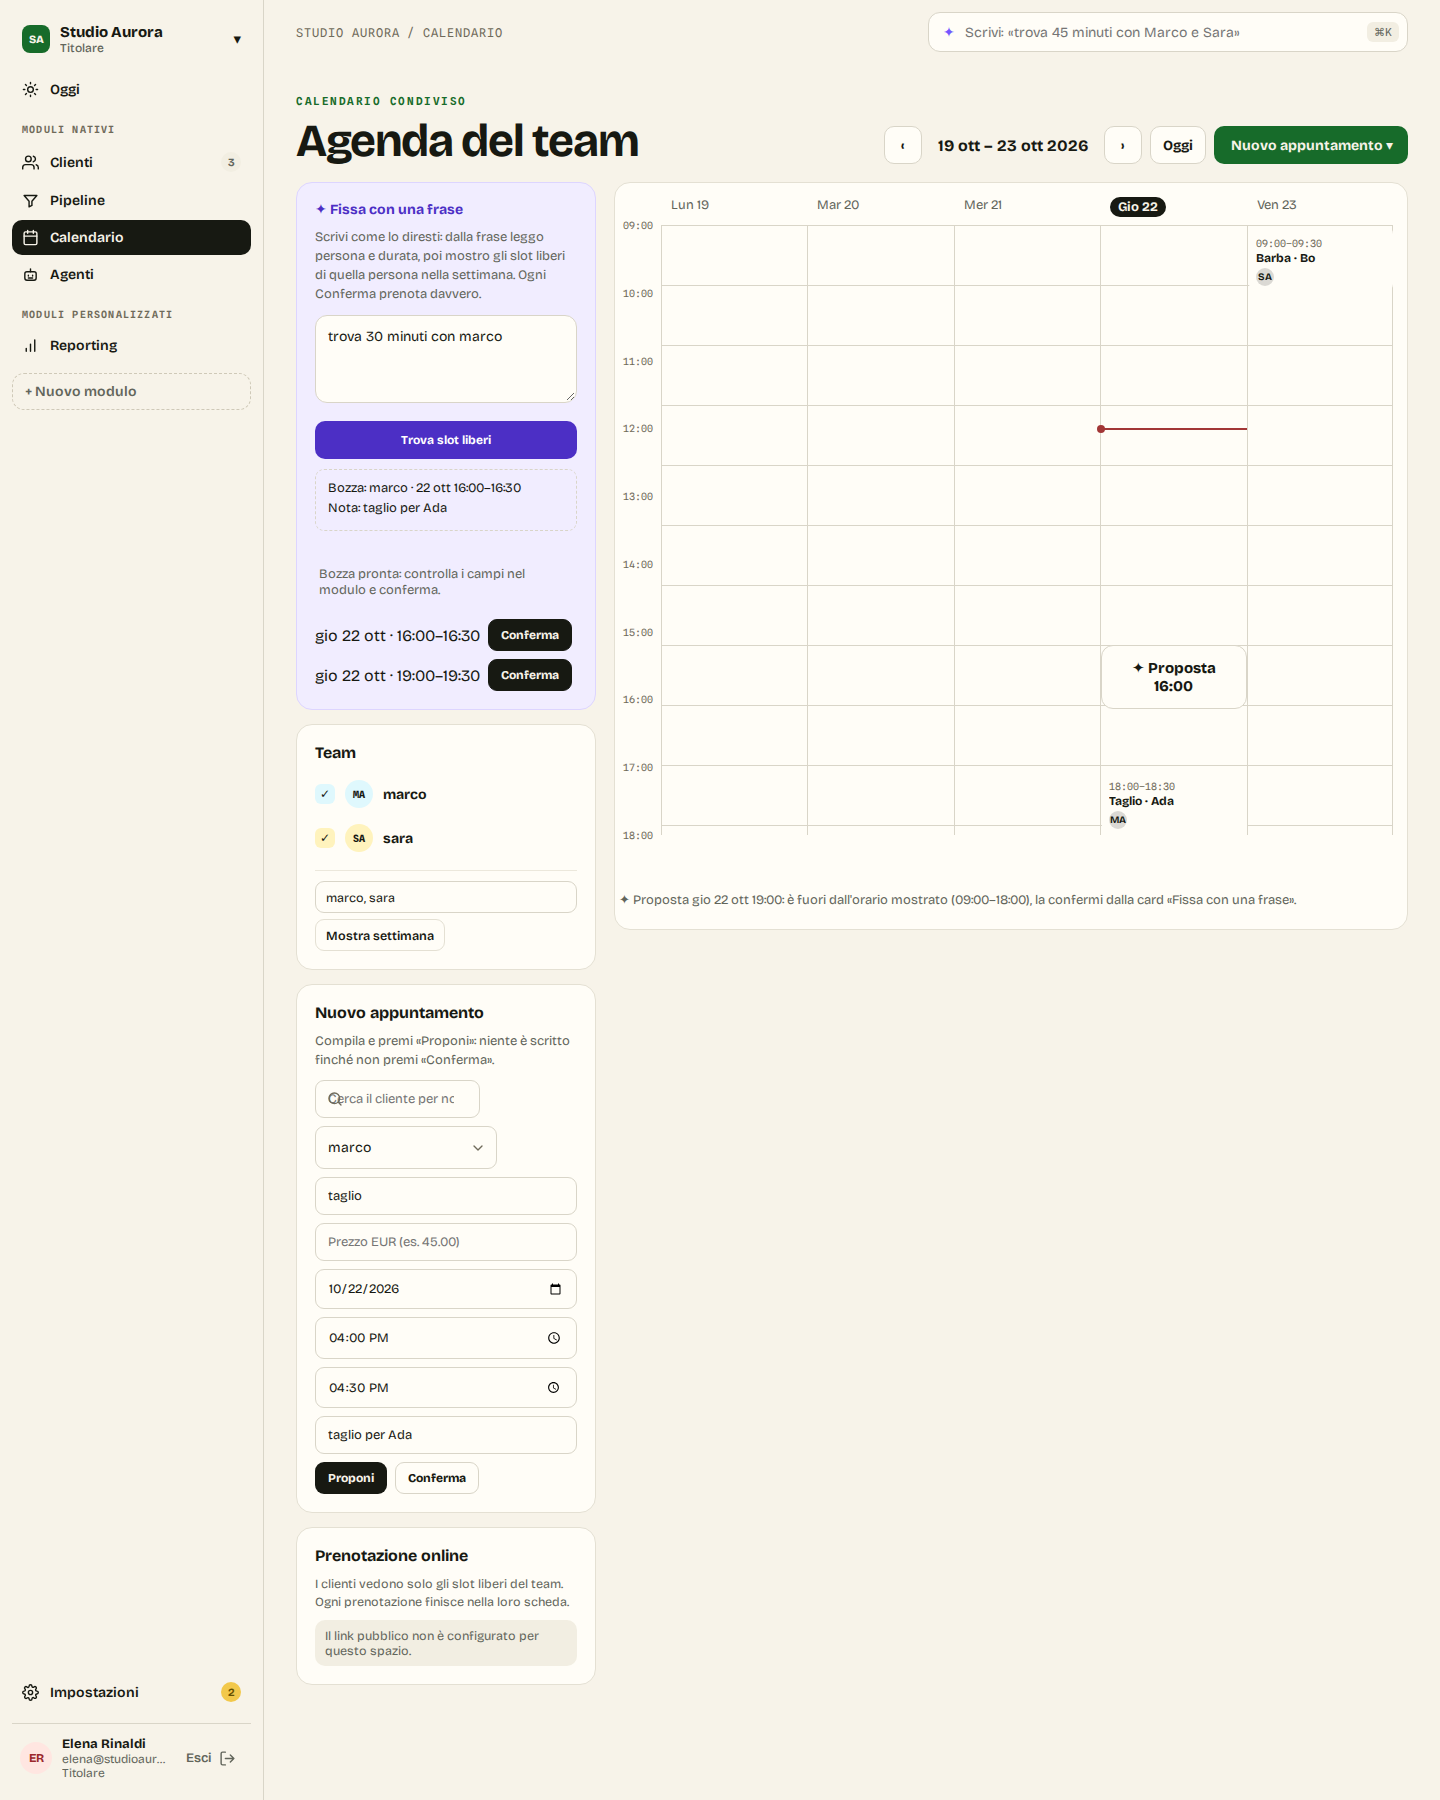
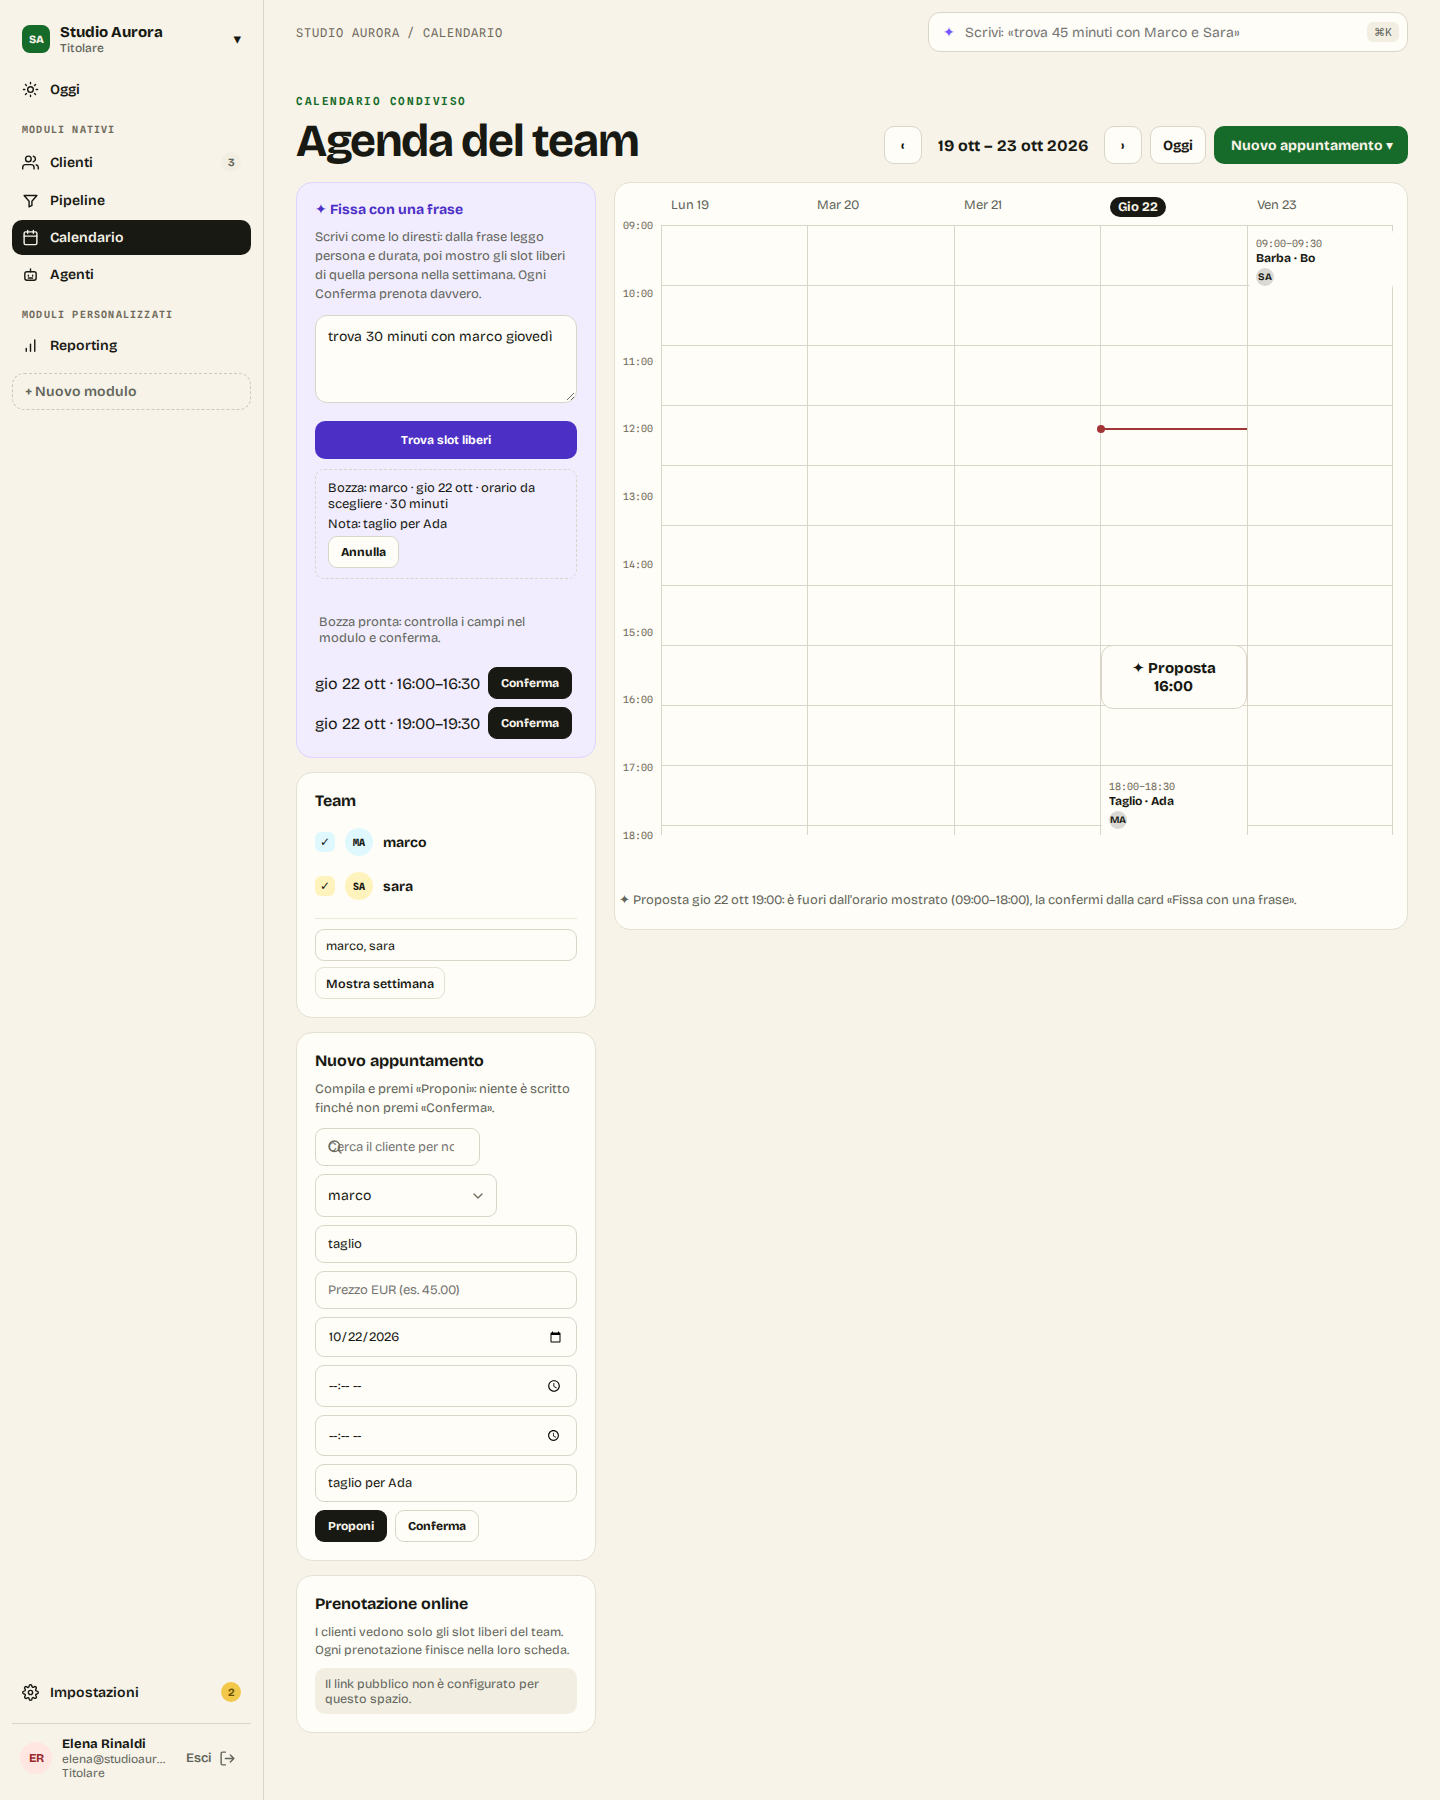
backlog:5fbebe85 Calendario /bo: PNG bo:shots 1440+390 aggiornati con reproTest (2 ritorno)

Changed region(s): [[0.2188, 0.2489, 0.4062, 0.9644]]

diff --git a/tests/admin-calendario-shots-pair.test.js b/tests/admin-calendario-shots-pair.test.js
@@ -1,0 +1,39 @@
+// @ts-check
+/**
+ * Riprova del NON PASSA del verificatore su backlog:5fbebe8559e9
+ * (2026-11-08: «OBSERVATION_FAILED: AC-3», la prova visibile del Calendario
+ * mancava, mentre C8 e C5 erano gia curati nel codice e C18 obsoleto e C12
+ * motivato per decisione).
+ *
+ * La schermata funzionale e coperta dai test (tests/admin-calendario*.test.js,
+ * mappa in docs/backoffice/calendario.md); quello che mancava era la prova
+ * visibile: la coppia di PNG 1440x1800 e 390x1600 resa con
+ * `npm run bo:shots -- --screen calendario`, committata in
+ * docs/backoffice/verifica-2026-11-10/bo-shots/. Senza la coppia questo test
+ * e rosso; con la coppia e verde.
+ */
+import test from 'node:test';
+import assert from 'node:assert/strict';
+import { join } from 'node:path';
+import { fileURLToPath } from 'node:url';
+
+import { DESKTOP, PHONE, readPngSize } from '../scripts/bo-shots.js';
+
+const shotsDir = join(
+  fileURLToPath(new URL('.', import.meta.url)),
+  '..',
+  'docs',
+  'backoffice',
+  'verifica-2026-11-10',
+  'bo-shots',
+);
+
+test('calendario carries its committed bo:shots proof pair (verifier 2026-11-08)', () => {
+  for (const [viewport, floor] of [[DESKTOP, 20000], [PHONE, 10000]]) {
+    const file = `calendario-${viewport.width}x${viewport.height}.png`;
+    const shot = readPngSize(join(shotsDir, file));
+    assert.equal(shot.width, viewport.width, `${file} renders at ${viewport.width}px wide`);
+    assert.equal(shot.height, viewport.height, `${file} renders at ${viewport.height}px tall`);
+    assert.ok(shot.bytes > floor, `${file} is a filled render (${shot.bytes}B over the ${floor}B floor)`);
+  }
+});
